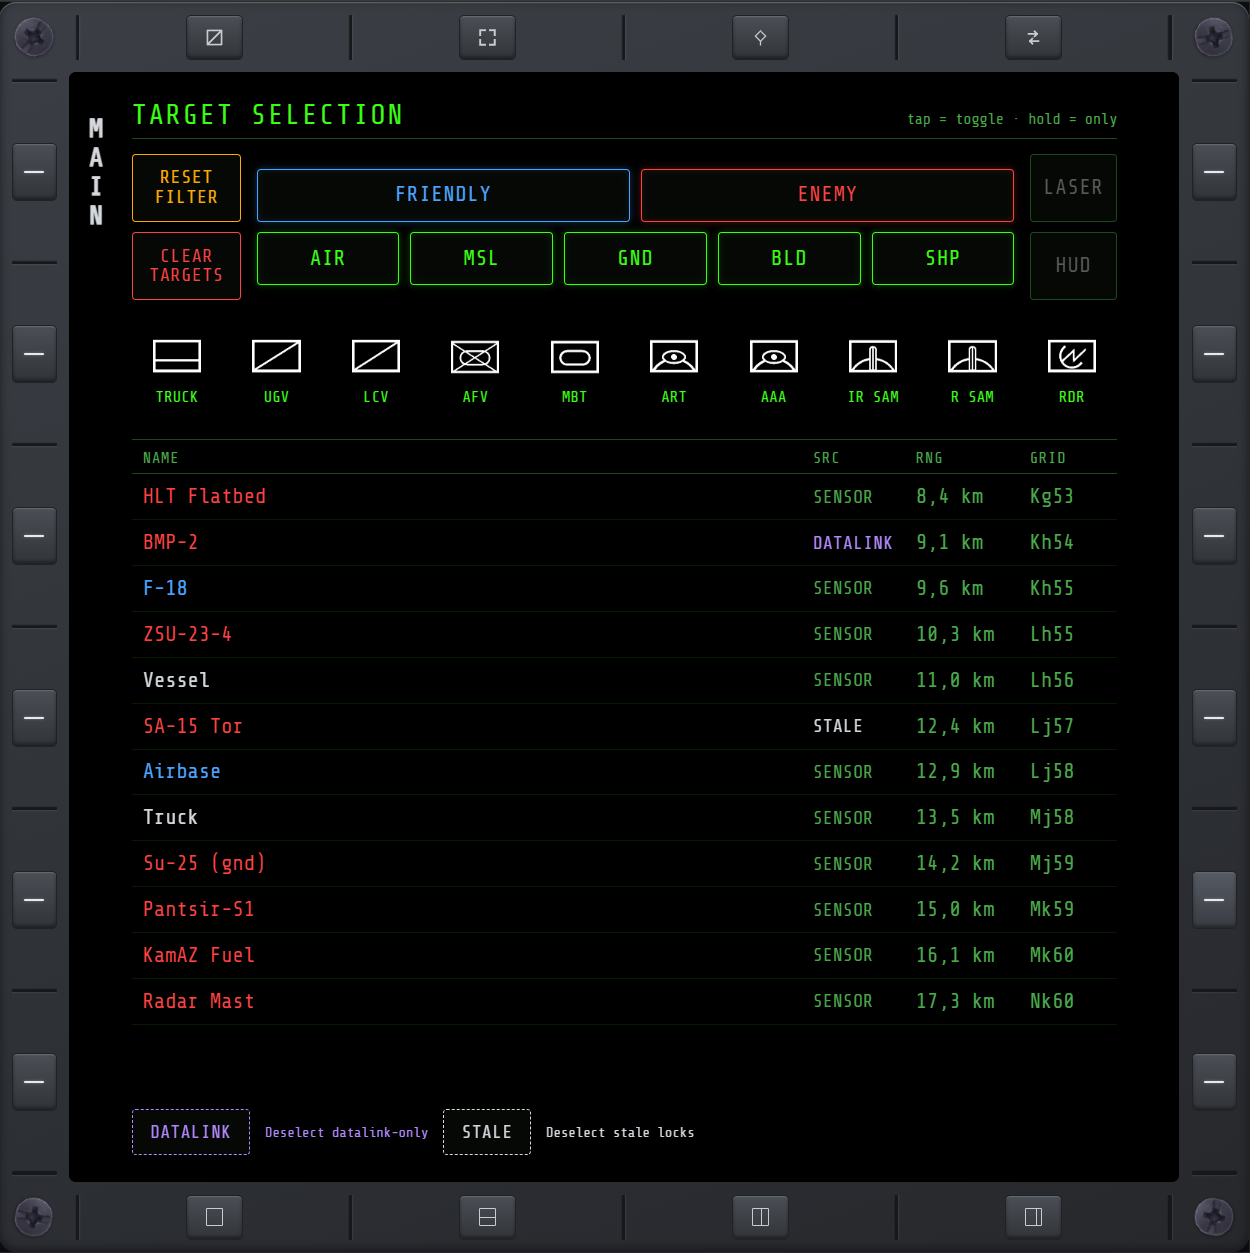
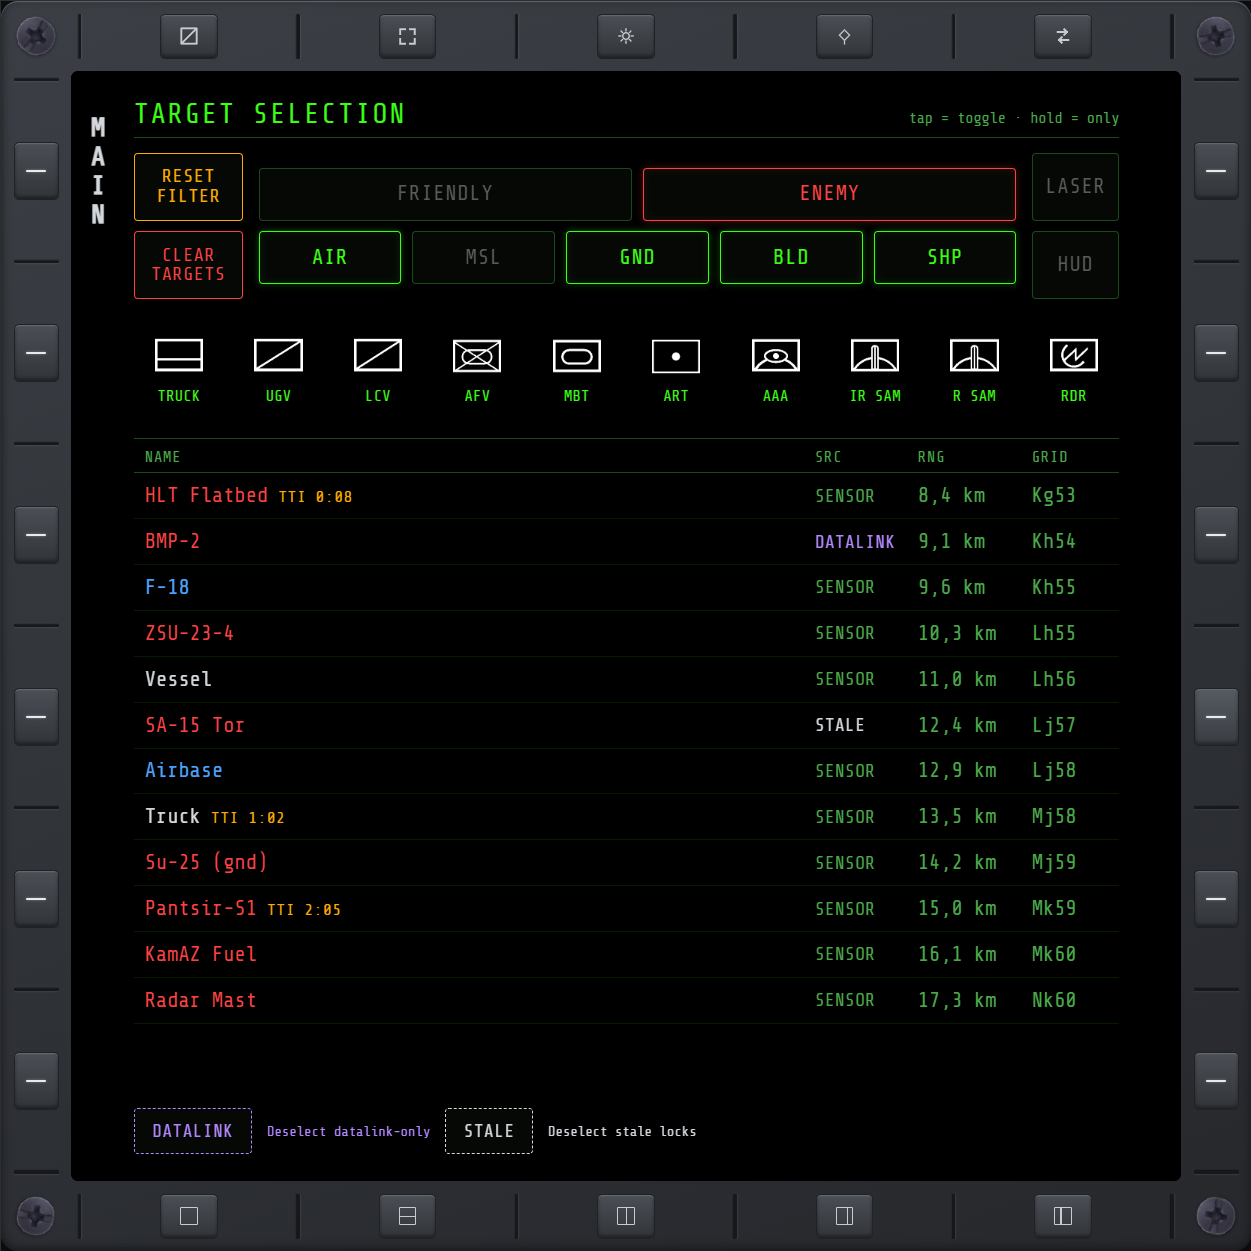
Review pass on Single Target Weapon Release; add TGT preview mock TTI
Restores a dropped comment explaining what wm.Fire() covers (safety,
guns-linked, salvo, network path) after the commit-delegate refactor, and
groups the new single-release frame/switchHold fields next to their closest
sibling instead of appended at the end.

Also adds mock tti values to three TGT preview-mock targets for screenshots,
and an updated man/images/TGT.png capture.

diff --git a/tools/preview-mock.js b/tools/preview-mock.js
@@ -208,17 +208,21 @@
     // A couple flagged dl:true (docs/tgt-datalink-cancel.md) and one st:true (docs/tgt-stale-lock.md,
     // implies dl) so the harness exercises the SRC column + the DATALINK/STALE buttons'
     // filter/deselect without needing the game.
+    // Three carry a `tti` (seconds, docs/hud-tti-estimate.md) so the harness exercises TGT's own
+    // per-row TTI readout without needing a live shot — telemetry-source.js only ever sets this
+    // from lockedTargetTti, but the harness's own `d.targets` override path (see there) passes
+    // these objects straight through, so setting it here directly is enough for a screenshot.
     targets: [
-      { id: 101, n: 'HLT Flatbed',   g: 'Kg53', r: 8.4,  f: 2 },
+      { id: 101, n: 'HLT Flatbed',   g: 'Kg53', r: 8.4,  f: 2, tti: 7.6 },
       { id: 102, n: 'BMP-2',         g: 'Kh54', r: 9.1,  f: 2, dl: true },
       { id: 103, n: 'F-18',          g: 'Kh55', r: 9.6,  f: 1 },
       { id: 104, n: 'ZSU-23-4',      g: 'Lh55', r: 10.3, f: 2 },
       { id: 105, n: 'Vessel',        g: 'Lh56', r: 11.0, f: 0 },
       { id: 106, n: 'SA-15 Tor',     g: 'Lj57', r: 12.4, f: 2, dl: true, st: true },
       { id: 107, n: 'Airbase',       g: 'Lj58', r: 12.9, f: 1 },
-      { id: 108, n: 'Truck',         g: 'Mj58', r: 13.5, f: 0 },
+      { id: 108, n: 'Truck',         g: 'Mj58', r: 13.5, f: 0, tti: 62 },
       { id: 109, n: 'Su-25 (gnd)',   g: 'Mj59', r: 14.2, f: 2 },
-      { id: 110, n: 'Pantsir-S1',    g: 'Mk59', r: 15.0, f: 2 },
+      { id: 110, n: 'Pantsir-S1',    g: 'Mk59', r: 15.0, f: 2, tti: 125 },
       { id: 111, n: 'KamAZ Fuel',    g: 'Mk60', r: 16.1, f: 2 },
       { id: 112, n: 'Radar Mast',    g: 'Nk60', r: 17.3, f: 2 },
     ],

diff --git a/src/plugin/Input/WeaponSelectors.cs b/src/plugin/Input/WeaponSelectors.cs
@@ -128,8 +128,8 @@ namespace NOXMFD
         // Press-vs-hold is derived from Time.frameCount continuity: the drive runs every held frame,
         // so a gap in frames = a fresh press. Misses a release+re-press within one frame — physically
         // impossible on a real key.
-        private static int  _gunFrame = -10, _relFrame = -10, _jamFrame = -10, _relSingleFrame = -10;
-        private static bool _gunSwitchHold,  _relSwitchHold,  _jamSwitchHold,  _relSingleSwitchHold;
+        private static int  _gunFrame = -10, _relFrame = -10, _relSingleFrame = -10, _jamFrame = -10;
+        private static bool _gunSwitchHold,  _relSwitchHold,  _relSingleSwitchHold,  _jamSwitchHold;
 
         public static void FireGun(Aircraft ac)       => Fire(ac, EffectiveGun(ac),       ref _gunFrame, ref _gunSwitchHold, wm => wm.Fire());
         public static void FireRelease(Aircraft ac)   => Fire(ac, EffectiveRelease(ac),   ref _relFrame, ref _relSwitchHold, wm => wm.Fire());
@@ -159,9 +159,11 @@ namespace NOXMFD
             return WeaponSelectorLogic.Effective(_loadout, bucket, CurrentMode(), soft);
         }
 
-        // `commit` is what stage 2 (already on the right weapon) actually does — wm.Fire() for the
-        // stock binds, FireSingleAtFocused for issue #68's — so the switch-then-fire arbitration
-        // stays shared instead of copy-pasted per bind.
+        // `commit` is what stage 2 (already on the right weapon) actually does, so the
+        // switch-then-fire arbitration below stays shared instead of copy-pasted per bind: wm.Fire()
+        // for the three stock binds — the stock trigger's own entry point, covering safety,
+        // guns-linked, salvo, and the network path in one call — or FireSingleAtFocused for issue
+        // #68's, which reimplements just enough of that to redirect the target.
         private static void Fire(Aircraft ac, string? name, ref int lastFrame, ref bool switchHold, Action<WeaponManager> commit)
         {
             bool fresh = UnityEngine.Time.frameCount != lastFrame + 1;   // gap = new press
